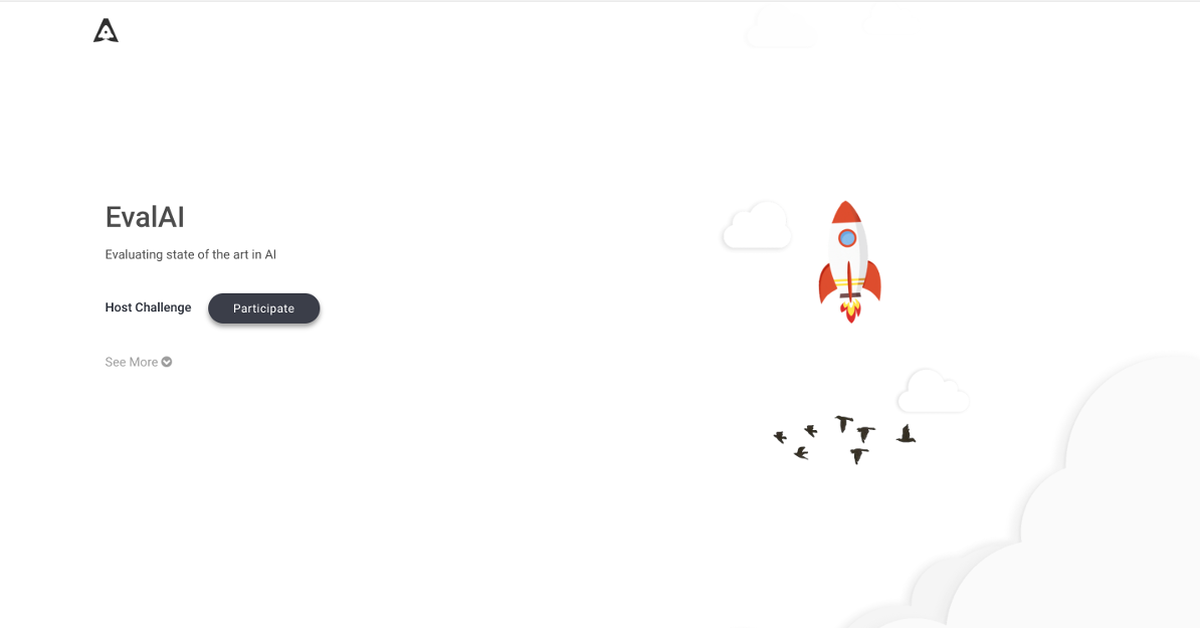
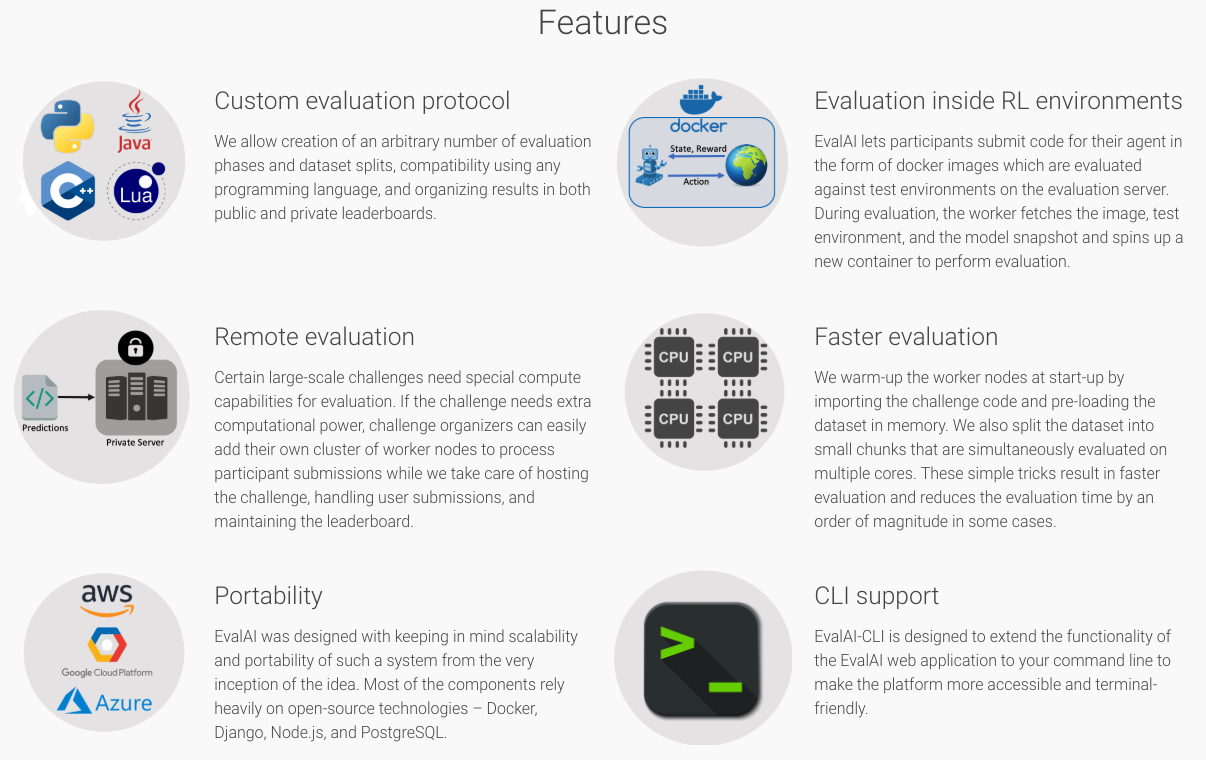
Update image and description in meta tags

diff --git a/frontend/src/views/web/landing.html b/frontend/src/views/web/landing.html
@@ -7,13 +7,16 @@
                 <div class="col s12 m8 l8">
                     <div class="grad-head">
                         <h3 class="text-dark-black"><strong></strong>Evaluating state-of-the-art in AI</strong></h3>
-                        <p class="text-med-black fs-18 w-300">EvalAI is an open source platform for evaluating and comparing machine learning (ML) and artificial intelligence algorithms (AI) at scale.</p>
+                        <p class="text-med-black fs-18 w-300">EvalAI is an open source platform for evaluating and
+                            comparing machine learning (ML) and artificial intelligence (AI) algorithms at scale.</p>
                         <div class="landing-buttons">
                             <ul class="inline-list">
                                 <li>
-                                    <a ng-click="main.hostChallenge()" href="javascript:void(0)" class="dark-link"><strong>Host Challenge</strong></a>
+                                    <a ng-click="main.hostChallenge()" href="javascript:void(0)"
+                                        class="dark-link"><strong>Host Challenge</strong></a>
                                 </li>
-                                <li><a class="btn ev-btn-dark waves-effect waves-dark grad-btn grad-btn-dark fs-14" ui-sref="web.challenge-main">Participate</a></li>
+                                <li><a class="btn ev-btn-dark waves-effect waves-dark grad-btn grad-btn-dark fs-14"
+                                        ui-sref="web.challenge-main">Participate</a></li>
                             </ul>
                             <br>
                             <br>
@@ -34,31 +37,42 @@
                     <div class="col s12 m4 l4">
                         <h5 class="w-300">Custom evaluation protocol</h5>
                         <p class="w-300 fs-16">We allow creation of an arbitrary number of evaluation phases
-                                and dataset splits, compatibility using any programming language, and organizing results in both
-                                public and private leaderboards.</p>
+                            and dataset splits, compatibility using any programming language, and organizing results in
+                            both
+                            public and private leaderboards.</p>
                     </div>
-                    <div class="col s12 m2 l2">
-                        <img src="/dist/images/features/remote.png" alt="" width="100%">
-                    </div>
-                    <div class="col s12 m4 l4">
-                        <h5 class="w-300">Remote evaluation</h5>
-                        <p class="w-300 fs-16">Certain large-scale challenges need special compute capabilities for evaluation. If the challenge needs extra computational power, challenge organizers can easily add their own cluster of worker nodes to process participant submissions while we take care of hosting the challenge, handling user submissions, and maintaining the leaderboard.</p>
-                    </div>
-                </div>
-                <div class="row">
                     <div class="col s12 m2 l2">
                         <img src="/dist/images/features/docker.png" alt="" width="100%">
                     </div>
                     <div class="col s12 m4 l4">
                         <h5 class="w-300">Evaluation inside RL environments</h5>
-                        <p class="w-300 fs-16">EvalAI lets participants submit code for their agent in the form of docker images which are evaluated against test environments on the evaluation server. During evaluation, the worker fetches the image, test environment, and the model snapshot and spins up a new container to perform evaluation.</p>
+                        <p class="w-300 fs-16">EvalAI lets participants submit code for their agent in the form of
+                            docker images which are evaluated against test environments on the evaluation server. During
+                            evaluation, the worker fetches the image, test environment, and the model snapshot and spins
+                            up a new container to perform evaluation.</p>
                     </div>
+                </div>
+                <div class="row">
                     <div class="col s12 m2 l2">
-                        <img src="/dist/images/features/cli.png" alt="" width="100%">
+                        <img src="/dist/images/features/remote.png" alt="" width="100%">
                     </div>
                     <div class="col s12 m4 l4">
-                        <h5 class="w-300">CLI support</h5>
-                        <p class="w-300 fs-16">EvalAI-CLI is designed to extend the functionality of the EvalAI web application to your command line to make the platform more accessible and terminal-friendly.</p>
+                        <h5 class="w-300">Remote evaluation</h5>
+                        <p class="w-300 fs-16">Certain large-scale challenges need special compute capabilities for
+                            evaluation. If the challenge needs extra computational power, challenge organizers can
+                            easily add their own cluster of worker nodes to process participant submissions while we
+                            take care of hosting the challenge, handling user submissions, and maintaining the
+                            leaderboard.</p>
+                    </div>
+                    <div class="col s12 m2 l2">
+                        <img src="/dist/images/features/faster-eval.png" alt="" width="100%">
+                    </div>
+                    <div class="col s12 m4 l4">
+                        <h5 class="w-300">Faster evaluation</h5>
+                        <p class="w-300 fs-16">We warm-up the worker nodes at start-up by importing the challenge code
+                            and pre-loading the dataset in memory. We also split the dataset into small chunks that are
+                            simultaneously evaluated on multiple cores. These simple tricks result in faster evaluation
+                            and reduces the evaluation time by an order of magnitude in some cases.</p>
                     </div>
                 </div>
                 <div class="row">
@@ -67,14 +81,18 @@
                     </div>
                     <div class="col s12 m4 l4">
                         <h5 class="w-300">Portability</h5>
-                        <p class="w-300 fs-16">EvalAI was designed with keeping in mind scalability and portability of such a system from the very inception of the idea. Most of the components rely heavily on open-source technologies – Docker, Django, Node.js, and PostgreSQL.</p>
+                        <p class="w-300 fs-16">EvalAI was designed with keeping in mind scalability and portability of
+                            such a system from the very inception of the idea. Most of the components rely heavily on
+                            open-source technologies – Docker, Django, Node.js, and PostgreSQL.</p>
                     </div>
                     <div class="col s12 m2 l2">
-                        <img src="/dist/images/features/faster-eval.png" alt="" width="100%">
+                        <img src="/dist/images/features/cli.png" alt="" width="100%">
                     </div>
                     <div class="col s12 m4 l4">
-                        <h5 class="w-300">Faster evaluation</h5>
-                        <p class="w-300 fs-16">We warm-up the worker nodes at start-up by importing the challenge code and pre-loading the dataset in memory. We also split the dataset into small chunks that are simultaneously evaluated on multiple cores. These simple tricks result in faster evaluation and reduces the evaluation time by an order of magnitude in some cases.</p>
+                        <h5 class="w-300">CLI support</h5>
+                        <p class="w-300 fs-16">EvalAI-CLI is designed to extend the functionality of the EvalAI web
+                            application to your command line to make the platform more accessible and terminal-friendly.
+                        </p>
                     </div>
                 </div>
             </div>
@@ -85,11 +103,14 @@
                     <h4 class="w-300 center">Popular challenges</h4>
                 </div>
                 <div class="row">
-                    <div class="col s12 m3 l3" ng-repeat="challenge in main.challengeList.results track by $index" ng-if="$index < 4"><a class="ev-card-hover" ui-sref="web.challenge-main.challenge-page({challengeId:challenge.id})">
+                    <div class="col s12 m3 l3" ng-repeat="challenge in main.challengeList.results track by $index"
+                        ng-if="$index < 4"><a class="ev-card-hover"
+                            ui-sref="web.challenge-main.challenge-page({challengeId:challenge.id})">
                             <div class="card ev-card-panel ev-challenge-card ev-card-hover">
                                 <div class="card-image ev-card-image">
                                     <img class="bg-img" ng-src="{{challenge.image}}">
-                                    <span class=" ev-card-title fs-14"><span><img ng-src="{{challenge.image}}" ></span>{{challenge.title}}</span>
+                                    <span class=" ev-card-title fs-14"><span><img
+                                                ng-src="{{challenge.image}}"></span>{{challenge.title}}</span>
                                 </div>
                                 <div class="card-content">
                                     <p><strong class="text-light-black fs-12">Organized by</strong>
@@ -103,14 +124,16 @@
                                     <p><strong class="text-light-black fs-12">Ends on</strong>
                                         <br>
                                         <span class="w-300 fs-16">{{challenge.end_date | date:'medium'}}</span>
-                                    </p> 
+                                    </p>
                                 </div>
-                                <div class=" btn-card-detail waves-effect waves-dark w-300 fs-14"> <strong>View Details </strong> &nbsp; </div>
+                                <div class=" btn-card-detail waves-effect waves-dark w-300 fs-14"> <strong>View Details
+                                    </strong> &nbsp; </div>
                             </div>
                         </a>
                     </div>
                     <div ng-if="!main.challengeList.count" class="row">
-                        <p class="text-dark-black w-300 center fs-16">Sorry! there are no featured challenges. Please check again later.</p>
+                        <p class="text-dark-black w-300 center fs-16">Sorry! there are no featured challenges. Please
+                            check again later.</p>
                     </div>
                 </div>
             </div>
@@ -201,30 +224,31 @@
                                 </div>
                             </div>
                         </div>
-                        </div>
                     </div>
                 </div>
             </div>
-        </section>
-        <!-- Arxiv Entry -->
-        <section class="ev-container ev-reverse-details text-med-black " id="ev-scroll-down">
-            <div class="grad-container text-med-black ">
-                <div class="row">
-                    <h4 class="w-300 center">Cite our work</h4>
-                </div>
-                <div class="row">
-                    <div class="col s12 m12 l12">
-                        <h5 class="w-400">EvalAI: Towards Better Evaluation Systems for AI Agents</h5>
-                        <span class="w-300 fs-16">Deshraj Yadav, Rishabh Jain, Harsh Agrawal, Prithvijit Chattopadhyay, Taranjeet Singh, Akash Jain, Shiv Baran Singh, Stefan Lee, Dhruv Batra</span>
-                    </div>
-                </div>
-                <div class="row">
-                    <a href="https://arxiv.org/abs/1902.03570" target="_blank">
-                        <img src="dist/images/evalai-paper.jpg" alt="" width="100%" class="thumb">
-                    </a>
-                </div>
-            </div>
-        </section>
     </div>
-    <landing-footer></landing-footer>
+    </section>
+    <!-- Arxiv Entry -->
+    <section class="ev-container ev-reverse-details text-med-black " id="ev-scroll-down">
+        <div class="grad-container text-med-black ">
+            <div class="row">
+                <h4 class="w-300 center">Cite our work</h4>
+            </div>
+            <div class="row">
+                <div class="col s12 m12 l12">
+                    <h5 class="w-400">EvalAI: Towards Better Evaluation Systems for AI Agents</h5>
+                    <span class="w-300 fs-16">Deshraj Yadav, Rishabh Jain, Harsh Agrawal, Prithvijit Chattopadhyay,
+                        Taranjeet Singh, Akash Jain, Shiv Baran Singh, Stefan Lee, Dhruv Batra</span>
+                </div>
+            </div>
+            <div class="row">
+                <a href="https://arxiv.org/abs/1902.03570" target="_blank">
+                    <img src="dist/images/evalai-paper.jpg" alt="" width="100%" class="thumb">
+                </a>
+            </div>
+        </div>
+    </section>
+</div>
+<landing-footer></landing-footer>
 </div>

diff --git a/frontend/base.html b/frontend/base.html
@@ -4,7 +4,7 @@
 <head>
     <title ng-bind="pageTitle + ' - EvalAI'"></title>
     <meta name="viewport" content="width=device-width, initial-scale=1">
-    <meta name="description" content="EvalAI is an open-source web platform for organizing and participating in challenges to push the state of the art on AI tasks.">
+    <meta name="description" content="EvalAI is an open source platform for evaluating and comparing machine learning (ML) and artificial intelligence (AI) algorithms at scale.">
     <meta http-equiv="Content-Type" content="text/html; charset=UTF-8">
     <!--Open Graph Related Stuff-->
     <meta property="og:type" content="website" />
@@ -13,7 +13,7 @@
     <meta property="og:image" content="https://evalai.cloudcv.org/dist/images/evalai-cover.png" />
     <meta property="og:image:type" content="image/png" />
     <meta property="og:site_name" content="EvalAI" />
-    <meta property="og:description" content="EvalAI is an open-source web platform for organizing and participating in challenges to push the state of the art on AI tasks." />
+    <meta property="og:description" content="EvalAI is an open source platform for evaluating and comparing machine learning (ML) and artificial intelligence (AI) algorithms at scale." />
     <!--Twitter Card Stuff-->
     <meta name="twitter:card" content="summary_large_image" />
     <!-- Favicon -->
